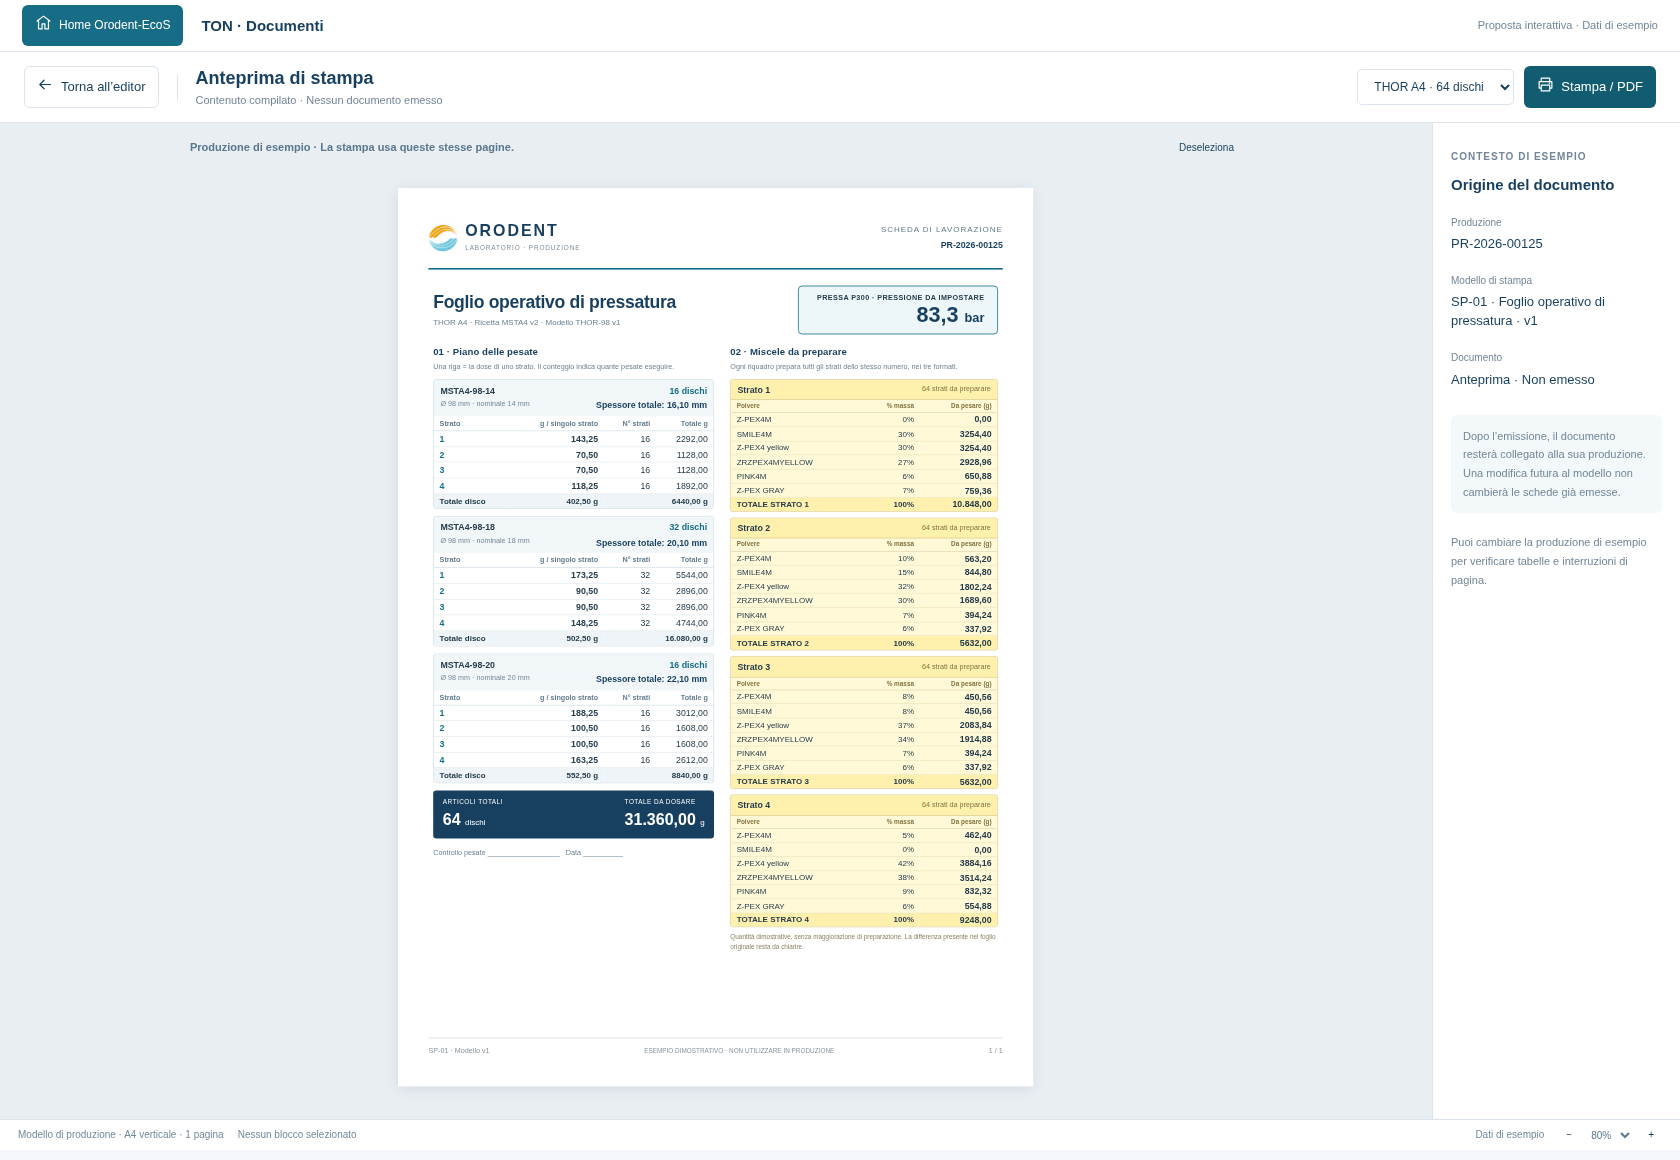
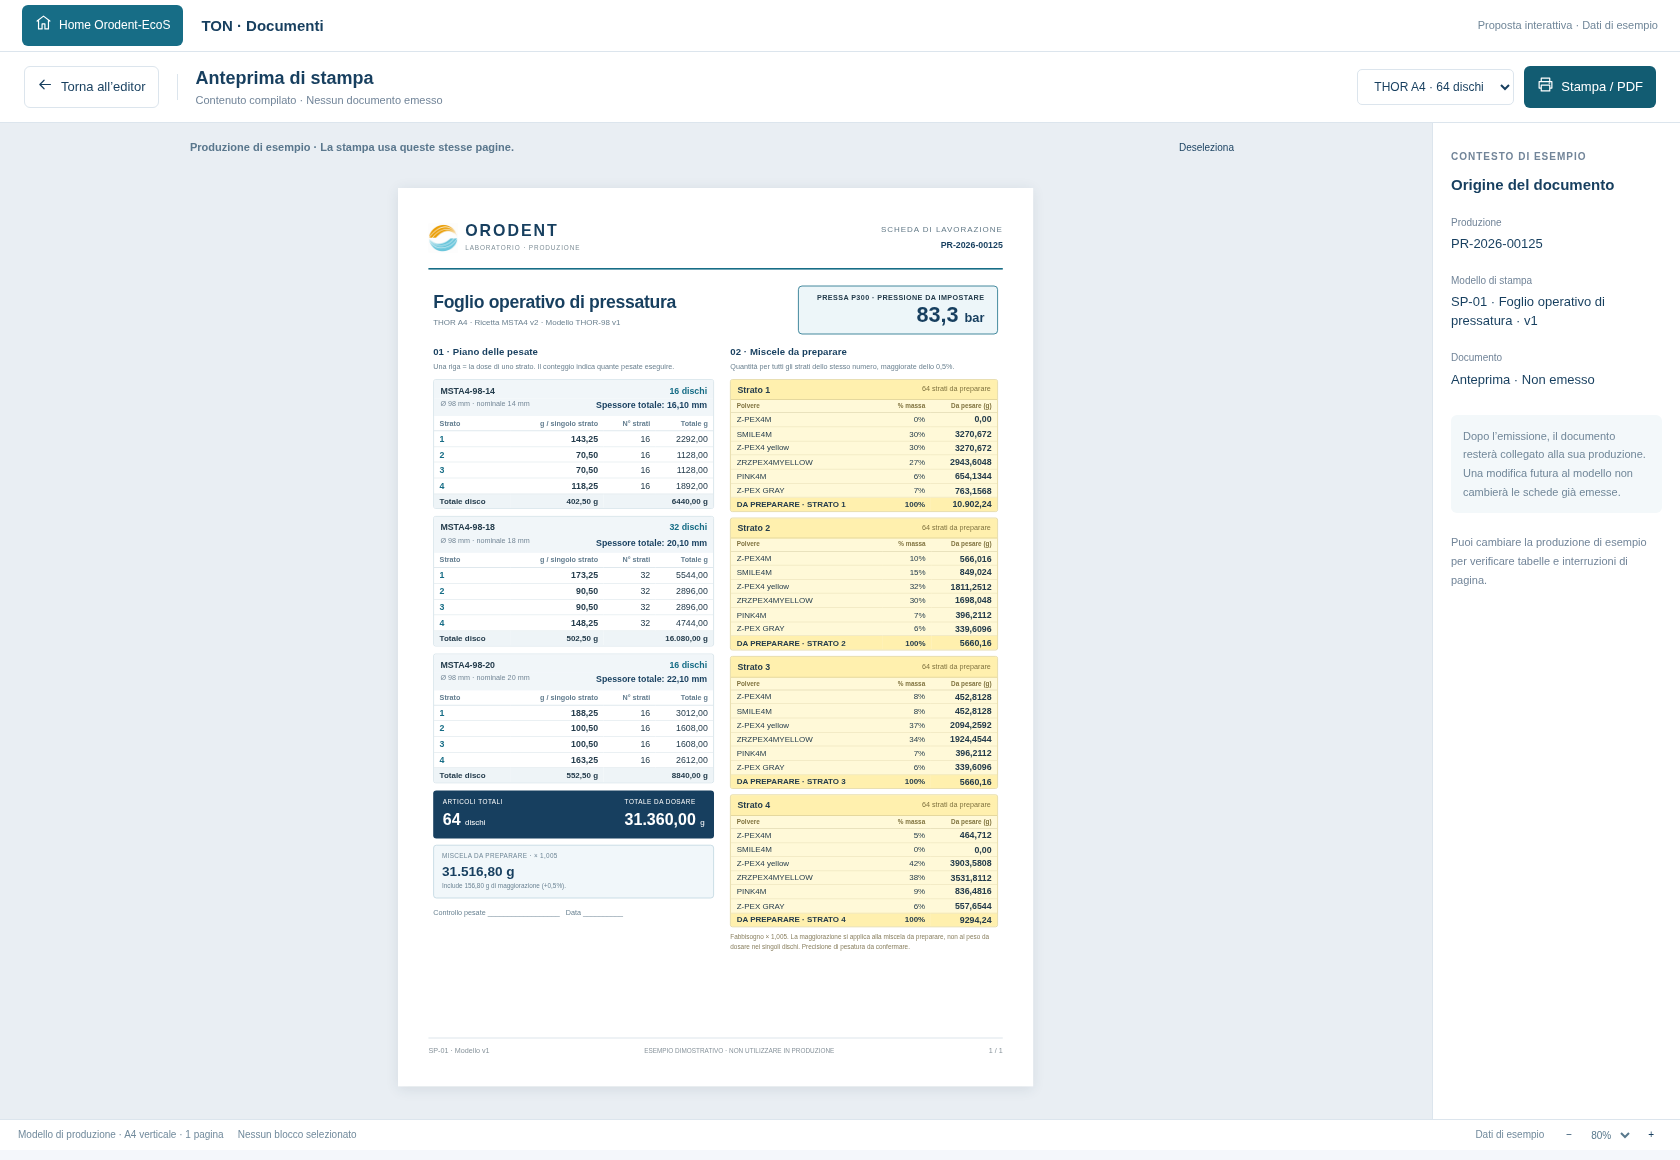
Apply confirmed 0.5 percent preparation allowance to document proposal

diff --git a/docs/mockups/ton-documenti-laboratorio.html b/docs/mockups/ton-documenti-laboratorio.html
@@ -14,7 +14,7 @@
 
 /* Dense operational sheet; all numbers are illustrative, not production calculations. */
 .paper .block[data-block="lab"],.paper .block:has(.lab-layout){margin:0;padding:3px 5px}
-.lab-heading{display:flex;align-items:center;justify-content:space-between;gap:12px;margin-bottom:13px}.lab-heading h2{font-size:22px;margin:0 0 4px}.lab-heading p{font-size:10px;color:#6c8190;margin:0}.lab-pressure{border:1.5px solid #176d86;border-radius:5px;padding:8px 16px;min-width:250px;text-align:right;background:#edf6f9}.lab-pressure span{display:block;font-size:9px;font-weight:600;letter-spacing:.5px}.lab-pressure strong{font-size:27px;line-height:1.1;color:#173f5f}.lab-pressure small{font-size:16px}.lab-layout{display:grid;grid-template-columns:1.05fr 1fr;gap:20px}.lab-layout h3{font-size:12px;margin:0 0 3px}.lab-help{font-size:9px;color:#6b8190;margin:0 0 8px!important}.lab-format{border:1px solid #d0dfe7;border-radius:3px;margin-bottom:9px;overflow:hidden}.lab-format-title{display:flex;justify-content:space-between;align-items:center;padding:5px 8px 2px;font-size:11px;background:#f1f6f9}.lab-format-title strong{color:#176d86}.lab-dimensions{font-size:9px;padding:0 8px 5px;background:#f1f6f9;display:flex;justify-content:space-between;gap:6px;color:#758898}.lab-dimensions b{color:#173f5f;font-size:11px}.lab-layout table{border-collapse:collapse;width:100%;font-size:11px;font-variant-numeric:tabular-nums;line-height:1.15}.lab-layout th{padding:4px 7px;font-size:9px;color:#647e90;text-align:left;border-bottom:1px solid #d7e3e9}.lab-layout td{padding:3px 7px;border-bottom:1px solid #e5edf1}.lab-layout .number{text-align:right;white-space:nowrap}.lab-layout th:not(:first-child){text-align:right}.lab-layout tfoot td{background:#eef4f7;font-size:10px;font-weight:600;border-bottom:0}.lab-layer{display:inline-block;width:15px;color:#176d86;font-weight:600}.lab-engineering{font-size:8px;color:#83929b;margin-left:4px}.lab-grand{display:flex;justify-content:space-between;background:#173f5f;color:white;border-radius:4px;padding:9px 12px;gap:10px}.lab-grand span{font-size:8px;letter-spacing:.6px;display:block}.lab-grand strong{font-size:20px}.lab-grand small{font-size:10px;font-weight:400}.lab-controls{font-size:9px;color:#698292;margin-top:12px}.lab-mix-grid{display:grid;gap:7px}.lab-mix-card{background:#fff9d8;border:1px solid #dfd39a;border-radius:3px;overflow:hidden;break-inside:avoid}.lab-mix-title{display:flex;align-items:center;justify-content:space-between;background:#fff0ae;border-bottom:1px solid #dfd39a;padding:4px 8px;gap:7px}.lab-mix-title b{font-size:11px}.lab-mix-title span{font-size:9px;color:#817440}.lab-mix-card th{padding:3px 7px;border-bottom:1px solid #e4dcb7;color:#817440;font-size:8px}.lab-mix-card td{padding:2px 7px;font-size:10px;border-bottom:1px solid #f1e8c2}.lab-mix-card td:last-child{font-size:11px}.lab-mix-card tfoot td{background:#fff0ae;border-top:1px solid #dfd39a;font-size:10px}.lab-footnote{font-size:8px;line-height:1.4;color:#8a8061;margin:7px 0 0!important}
+.lab-heading{display:flex;align-items:center;justify-content:space-between;gap:12px;margin-bottom:13px}.lab-heading h2{font-size:22px;margin:0 0 4px}.lab-heading p{font-size:10px;color:#6c8190;margin:0}.lab-pressure{border:1.5px solid #176d86;border-radius:5px;padding:8px 16px;min-width:250px;text-align:right;background:#edf6f9}.lab-pressure span{display:block;font-size:9px;font-weight:600;letter-spacing:.5px}.lab-pressure strong{font-size:27px;line-height:1.1;color:#173f5f}.lab-pressure small{font-size:16px}.lab-layout{display:grid;grid-template-columns:1.05fr 1fr;gap:20px}.lab-layout h3{font-size:12px;margin:0 0 3px}.lab-help{font-size:9px;color:#6b8190;margin:0 0 8px!important}.lab-format{border:1px solid #d0dfe7;border-radius:3px;margin-bottom:9px;overflow:hidden}.lab-format-title{display:flex;justify-content:space-between;align-items:center;padding:5px 8px 2px;font-size:11px;background:#f1f6f9}.lab-format-title strong{color:#176d86}.lab-dimensions{font-size:9px;padding:0 8px 5px;background:#f1f6f9;display:flex;justify-content:space-between;gap:6px;color:#758898}.lab-dimensions b{color:#173f5f;font-size:11px}.lab-layout table{border-collapse:collapse;width:100%;font-size:11px;font-variant-numeric:tabular-nums;line-height:1.15}.lab-layout th{padding:4px 7px;font-size:9px;color:#647e90;text-align:left;border-bottom:1px solid #d7e3e9}.lab-layout td{padding:3px 7px;border-bottom:1px solid #e5edf1}.lab-layout .number{text-align:right;white-space:nowrap}.lab-layout th:not(:first-child){text-align:right}.lab-layout tfoot td{background:#eef4f7;font-size:10px;font-weight:600;border-bottom:0}.lab-layer{display:inline-block;width:15px;color:#176d86;font-weight:600}.lab-engineering{font-size:8px;color:#83929b;margin-left:4px}.lab-grand{display:flex;justify-content:space-between;background:#173f5f;color:white;border-radius:4px;padding:9px 12px;gap:10px}.lab-grand span{font-size:8px;letter-spacing:.6px;display:block}.lab-grand strong{font-size:20px}.lab-grand small{font-size:10px;font-weight:400}.lab-preparation{margin-top:8px;padding:8px 10px;border:1px solid #bfd5df;border-radius:4px;background:#f1f7fa}.lab-preparation span{font-size:8px;display:block;color:#6d8595;letter-spacing:.4px}.lab-preparation b{font-size:17px;display:block;color:#173f5f}.lab-preparation small{font-size:8px;display:block;color:#6d8595}.lab-controls{font-size:9px;color:#698292;margin-top:12px}.lab-mix-grid{display:grid;gap:7px}.lab-mix-card{background:#fff9d8;border:1px solid #dfd39a;border-radius:3px;overflow:hidden;break-inside:avoid}.lab-mix-title{display:flex;align-items:center;justify-content:space-between;background:#fff0ae;border-bottom:1px solid #dfd39a;padding:4px 8px;gap:7px}.lab-mix-title b{font-size:11px}.lab-mix-title span{font-size:9px;color:#817440}.lab-mix-card th{padding:3px 7px;border-bottom:1px solid #e4dcb7;color:#817440;font-size:8px}.lab-mix-card td{padding:2px 7px;font-size:10px;border-bottom:1px solid #f1e8c2}.lab-mix-card td:last-child{font-size:11px}.lab-mix-card tfoot td{background:#fff0ae;border-top:1px solid #dfd39a;font-size:10px}.lab-footnote{font-size:8px;line-height:1.4;color:#8a8061;margin:7px 0 0!important}
 
 </style>
 <style id="print-page">@page{size:A4 portrait;margin:0}</style>
@@ -58,8 +58,9 @@ const labFormats=[
 const labPowders=['Z-PEX4M','SMILE4M','Z-PEX4 yellow','ZRZPEX4MYELLOW','PINK4M','Z-PEX GRAY'];
 const labRecipes=[[0,30,30,27,6,7],[10,15,32,30,7,6],[8,8,37,34,7,6],[5,0,42,38,9,6]];
 const labNumber=n=>new Intl.NumberFormat('it-IT',{minimumFractionDigits:2,maximumFractionDigits:2}).format(n/100);
-function labData(){const scale=$('sample').value==='long'?.5:1;const formats=labFormats.map(f=>({...f,count:f.count*scale}));const qty=formats.reduce((t,f)=>t+f.count,0);const layers=[0,1,2,3].map(i=>({number:i+1,count:qty,mass:formats.reduce((t,f)=>t+f.weights[i]*f.count,0)}));return{formats,qty,layers,total:layers.reduce((t,l)=>t+l.mass,0)}}
-function labSheet(block){const d=labData();return `<div class="lab-heading"><div><h2>Foglio operativo di pressatura</h2><p>THOR A4 · Ricetta MSTA4 v2 · Modello THOR-98 v1</p></div><div class="lab-pressure"><span>PRESSA P300 · PRESSIONE DA IMPOSTARE</span><strong>83,3 <small>bar</small></strong></div></div><div class="lab-layout"><section class="lab-weigh"><h3>01 · Piano delle pesate</h3><p class="lab-help">Una riga = la dose di uno strato. Il conteggio indica quante pesate eseguire.</p>${d.formats.map(f=>`<div class="lab-format"><div class="lab-format-title"><b>${f.code}</b><strong>${f.count} dischi</strong></div><div class="lab-dimensions">Ø 98 mm · nominale ${f.nominal} mm <b>Spessore totale: ${f.thickness} mm</b></div><table><thead><tr><th>Strato</th><th>g / singolo strato</th><th>N° strati</th><th>Totale g</th></tr></thead><tbody>${f.weights.map((m,i)=>`<tr><td><span class="lab-layer">${i+1}</span>${block.engineering?`<small class="lab-engineering">${[1400,1500,1700,1900][i]} ppm</small>`:''}</td><td class="number"><b>${labNumber(m)}</b></td><td class="number">${f.count}</td><td class="number">${labNumber(m*f.count)}</td></tr>`).join('')}</tbody><tfoot><tr><td>Totale disco</td><td class="number">${labNumber(f.weights.reduce((t,m)=>t+m,0))} g</td><td colspan="2" class="number">${labNumber(f.weights.reduce((t,m)=>t+m,0)*f.count)} g</td></tr></tfoot></table>${block.engineering?'<div class="lab-engineering">Coefficiente modello: 25 g/mm · dati di progetto</div>':''}</div>`).join('')}<div class="lab-grand"><div><span>ARTICOLI TOTALI</span><strong>${d.qty} <small>dischi</small></strong></div><div><span>TOTALE DA DOSARE</span><strong>${labNumber(d.total)} <small>g</small></strong></div></div><div class="lab-controls">Controllo pesate __________________ &nbsp; Data __________</div></section><section class="lab-mix"><h3>02 · Miscele da preparare</h3><p class="lab-help">Ogni riquadro prepara tutti gli strati dello stesso numero, nei tre formati.</p><div class="lab-mix-grid">${d.layers.map((l,i)=>`<div class="lab-mix-card"><div class="lab-mix-title"><b>Strato ${l.number}</b><span>${l.count} strati da preparare${block.engineering?' · '+[1400,1500,1700,1900][i]+' ppm':''}</span></div><table><thead><tr><th>Polvere</th><th>% massa</th><th>Da pesare (g)</th></tr></thead><tbody>${labPowders.map((p,j)=>`<tr><td>${p}</td><td class="number">${labRecipes[i][j]}%</td><td class="number"><b>${labNumber(l.mass*labRecipes[i][j]/100)}</b></td></tr>`).join('')}</tbody><tfoot><tr><td>TOTALE STRATO ${l.number}</td><td class="number">100%</td><td class="number">${labNumber(l.mass)}</td></tr></tfoot></table></div>`).join('')}</div><p class="lab-footnote">Quantità dimostrative, senza maggiorazione di preparazione. La differenza presente nel foglio originale resta da chiarire.</p></section></div>`}
+const labMixNumber=n=>new Intl.NumberFormat('it-IT',{minimumFractionDigits:2,maximumFractionDigits:4}).format(n/100);
+function labData(){const scale=$('sample').value==='long'?.5:1;const formats=labFormats.map(f=>({...f,count:f.count*scale}));const qty=formats.reduce((t,f)=>t+f.count,0);const layers=[0,1,2,3].map(i=>{const mass=formats.reduce((t,f)=>t+f.weights[i]*f.count,0);return{number:i+1,count:qty,mass,preparation:mass*1005/1000}});const total=layers.reduce((t,l)=>t+l.mass,0),preparationTotal=layers.reduce((t,l)=>t+l.preparation,0);return{formats,qty,layers,total,preparationTotal,allowance:preparationTotal-total}}
+function labSheet(block){const d=labData();return `<div class="lab-heading"><div><h2>Foglio operativo di pressatura</h2><p>THOR A4 · Ricetta MSTA4 v2 · Modello THOR-98 v1</p></div><div class="lab-pressure"><span>PRESSA P300 · PRESSIONE DA IMPOSTARE</span><strong>83,3 <small>bar</small></strong></div></div><div class="lab-layout"><section class="lab-weigh"><h3>01 · Piano delle pesate</h3><p class="lab-help">Una riga = la dose di uno strato. Il conteggio indica quante pesate eseguire.</p>${d.formats.map(f=>`<div class="lab-format"><div class="lab-format-title"><b>${f.code}</b><strong>${f.count} dischi</strong></div><div class="lab-dimensions">Ø 98 mm · nominale ${f.nominal} mm <b>Spessore totale: ${f.thickness} mm</b></div><table><thead><tr><th>Strato</th><th>g / singolo strato</th><th>N° strati</th><th>Totale g</th></tr></thead><tbody>${f.weights.map((m,i)=>`<tr><td><span class="lab-layer">${i+1}</span>${block.engineering?`<small class="lab-engineering">${[1400,1500,1700,1900][i]} ppm</small>`:''}</td><td class="number"><b>${labNumber(m)}</b></td><td class="number">${f.count}</td><td class="number">${labNumber(m*f.count)}</td></tr>`).join('')}</tbody><tfoot><tr><td>Totale disco</td><td class="number">${labNumber(f.weights.reduce((t,m)=>t+m,0))} g</td><td colspan="2" class="number">${labNumber(f.weights.reduce((t,m)=>t+m,0)*f.count)} g</td></tr></tfoot></table>${block.engineering?'<div class="lab-engineering">Coefficiente modello: 25 g/mm · dati di progetto</div>':''}</div>`).join('')}<div class="lab-grand"><div><span>ARTICOLI TOTALI</span><strong>${d.qty} <small>dischi</small></strong></div><div><span>TOTALE DA DOSARE</span><strong>${labNumber(d.total)} <small>g</small></strong></div></div><div class="lab-preparation"><span>MISCELA DA PREPARARE · × 1,005</span><b>${labNumber(d.preparationTotal)} g</b><small>Include ${labNumber(d.allowance)} g di maggiorazione (+0,5%).</small></div><div class="lab-controls">Controllo pesate __________________ &nbsp; Data __________</div></section><section class="lab-mix"><h3>02 · Miscele da preparare</h3><p class="lab-help">Quantità per tutti gli strati dello stesso numero, maggiorate dello 0,5%.</p><div class="lab-mix-grid">${d.layers.map((l,i)=>`<div class="lab-mix-card"><div class="lab-mix-title"><b>Strato ${l.number}</b><span>${l.count} strati da preparare${block.engineering?' · '+[1400,1500,1700,1900][i]+' ppm':''}</span></div><table><thead><tr><th>Polvere</th><th>% massa</th><th>Da pesare (g)</th></tr></thead><tbody>${labPowders.map((p,j)=>`<tr><td>${p}</td><td class="number">${labRecipes[i][j]}%</td><td class="number"><b>${labMixNumber(l.preparation*labRecipes[i][j]/100)}</b></td></tr>`).join('')}</tbody><tfoot><tr><td>DA PREPARARE · STRATO ${l.number}</td><td class="number">100%</td><td class="number">${labNumber(l.preparation)}</td></tr></tfoot></table></div>`).join('')}</div><p class="lab-footnote">Fabbisogno × 1,005. La maggiorazione si applica alla miscela da preparare, non al peso da dosare nei singoli dischi. Precisione di pesatura da confermare.</p></section></div>`}
 function rowData(kind){const d=data(),m=d.multiplier;
  if(kind==='articles')return d.long?Array.from({length:12},(_,i)=>({code:'MSTA2-98-'+(12+i),description:'Thor A2',format:'Ø 98 × '+(12+i)+' mm',qty:'2'})):[{code:'MSTA2-98-16',description:'Thor A2',format:'Ø 98 × 16 mm',qty:'8'},{code:'MSTA2-98-18',description:'Thor A2',format:'Ø 98 × 18 mm',qty:'4'}];
  if(kind==='dose')return [{layer:'1 · Superiore',powder:'BI-3 · Bianca',revision:'v2',dose:159*m},{layer:'1 · Superiore',powder:'GI-5 · Gialla',revision:'v1',dose:53*m},{layer:'2 · Inferiore',powder:'BI-3 · Bianca',revision:'v2',dose:106*m},{layer:'2 · Inferiore',powder:'GI-5 · Gialla',revision:'v1',dose:106*m}];

diff --git a/docs/ton-documenti-laboratorio.md b/docs/ton-documenti-laboratorio.md
@@ -58,11 +58,21 @@ a verificare la presenza e la leggibilità dei campi, non a validare il processo
 - I totali si ricavano dai valori di calcolo completi; non dai pesi unitari già
   arrotondati per la visualizzazione. Precisione delle bilance, arrotondamenti
   e gestione dei residui devono essere regole esplicite e versionate.
-- Nel foglio originale il fabbisogno del primo strato è 10.848 g, mentre il suo
-  riquadro miscela riporta 10.902,2 g. È stato chiesto se questa differenza deriva
-  da una maggiorazione di preparazione. La regola non è stata dedotta: nell'esempio
-  nuovo non è applicata alcuna maggiorazione. Se confermata, dose necessaria,
-  maggiorazione e quantità da preparare vanno conservate separatamente.
+- **Maggiorazione confermata dall'utente:** la miscela da preparare è il fabbisogno
+  da dosare moltiplicato per **1,005**, quindi **+0,5%**, per compensare le perdite
+  durante la lavorazione. Le percentuali della ricetta si applicano alla quantità
+  da preparare. Non si aumentano anche le dosi del singolo disco e non si applica
+  il fattore una seconda volta alle quote delle polveri.
+- Dose necessaria, fattore utilizzato e quantità da preparare devono essere campi
+  distinti, congelati nell'emissione insieme alla versione della regola. Nel campione:
+  10.848 → 10.902,24 g; 5.632 → 5.660,16 g; 5.632 → 5.660,16 g;
+  9.248 → 9.294,24 g. Il totale passa da 31.360 a **31.516,80 g**.
+- Il fattore confermato viene applicato uniformemente nell'esempio nuovo. Il quarto
+  riquadro del foglio originale riporta 9.275,7 g, che non corrisponde a 9.248 × 1,005:
+  il prototipo non deduce da quel valore un'eccezione al fattore indicato dall'utente.
+- Le quote delle polveri sono mostrate fino a quattro decimali per non inventare
+  una regola di arrotondamento operativo. Precisione delle bilance e gestione del
+  residuo restano da confermare; il campione conserva le quantità analitiche.
 - La pressione macchina in bar va determinata dalla regola della pressa e dai
   suoi parametri, non da una semplice conversione della pressione sul materiale
   in kg/cm². Prima di calcolarla occorre confermare come si ottiene il valore
